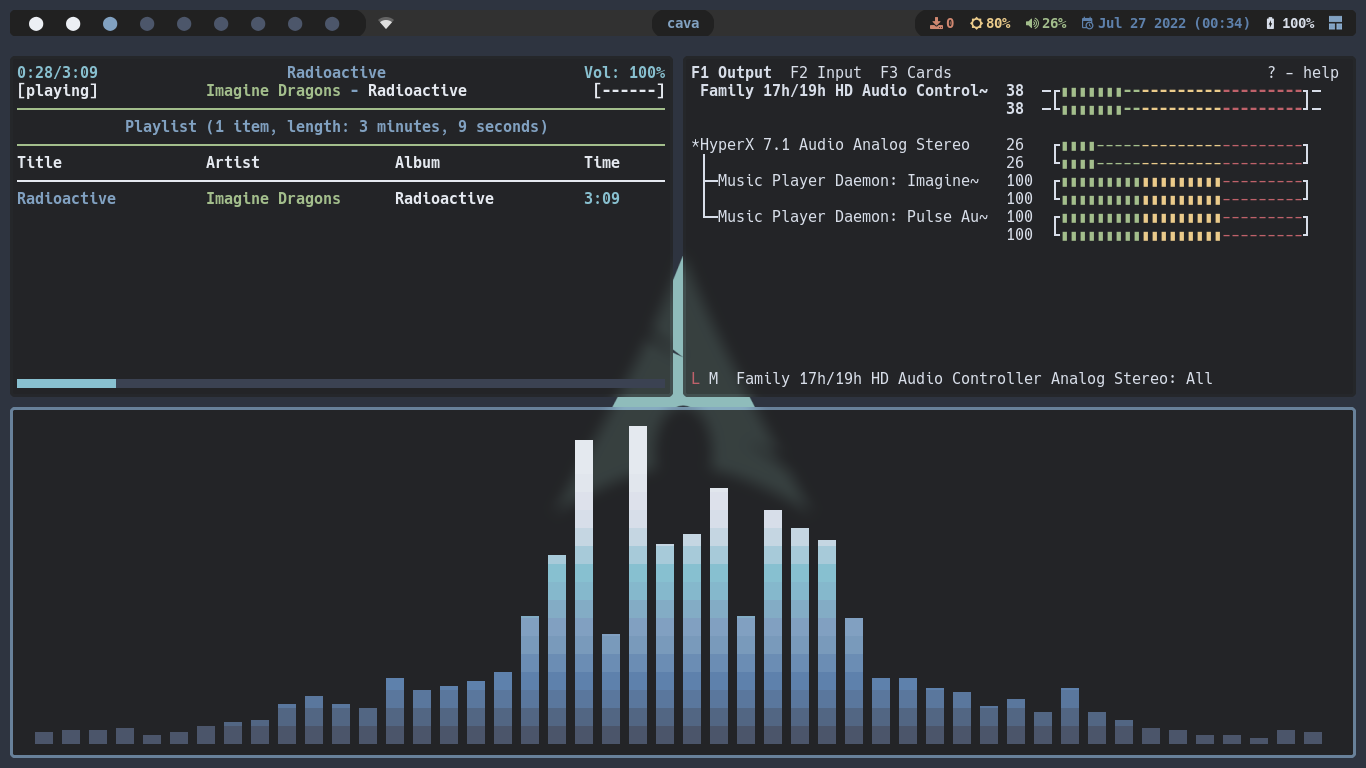
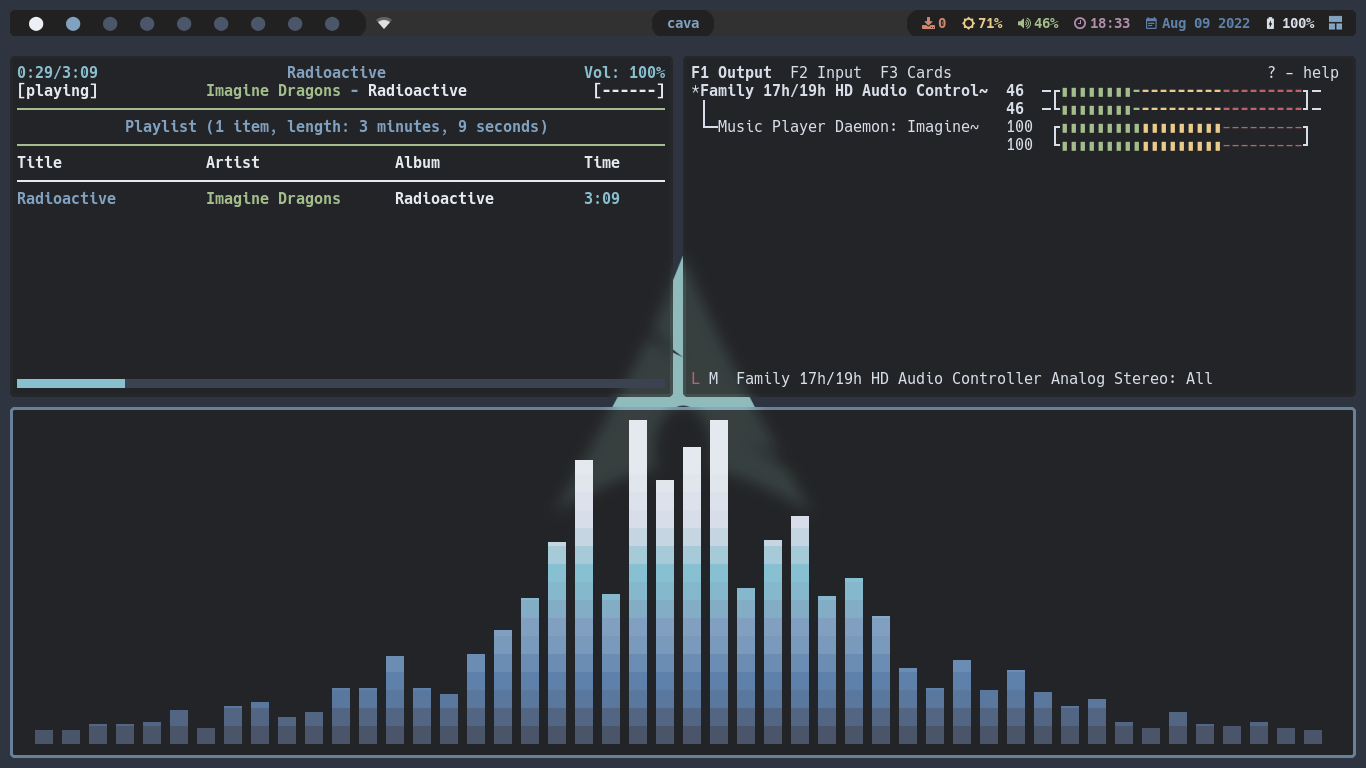
Updates and adds better funcionalities to status bar widgets

diff --git a/.config/qtile/settings/widgets.py b/.config/qtile/settings/widgets.py
@@ -94,17 +94,13 @@ def primary_widgets(visible_groups):
             fontsize=26,
         ),
 
-        widget.CheckUpdates(
-            **base(),
-            update_interval=1200,
-            colour_have_updates=colors['color3'],
-            colour_no_updates=colors['color3'],
-            distro='Arch_paru',
-            custom_command='arch-updates',
-            display_format='{updates}',
-            no_update_string='0',
-            fmt=' {}',
-            execute='kitty -e paru',
+        widget.GenPollText(
+            **base(fg='color3'),
+            func=lambda: subprocess.check_output(["arch-updates"], encoding="utf-8"),
+            mouse_callbacks={
+                'Button1': lazy.spawn("arch-updates action"),
+            },
+            update_interval=1,
         ),
 
         separator(),
@@ -136,8 +132,21 @@ def primary_widgets(visible_groups):
         separator(),
 
         widget.GenPollText(
+            **base(fg='color6'),
+            func=lambda: subprocess.check_output(["hour"], encoding="utf-8"),
+            update_interval=1,
+        ),
+
+        separator(),
+
+        widget.GenPollText(
             **base(fg='color10'),
             func=lambda: subprocess.check_output(["calendar"], encoding="utf-8"),
+            mouse_callbacks={
+                'Button1': lazy.spawn("calendar curr"),
+                'Button5': lazy.spawn("calendar next"),
+                'Button4': lazy.spawn("calendar prev")
+            },
             update_interval=1,
         ),
 
